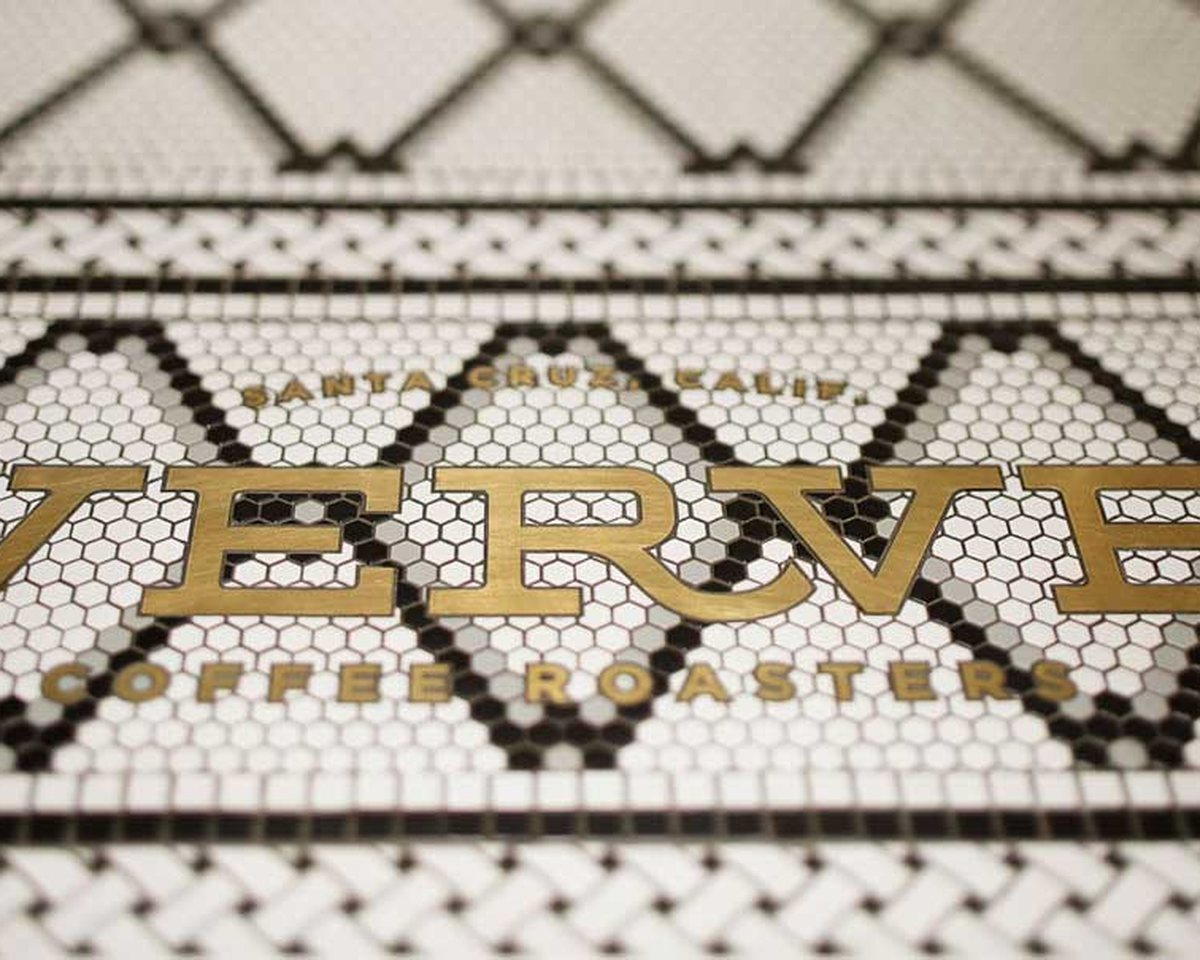
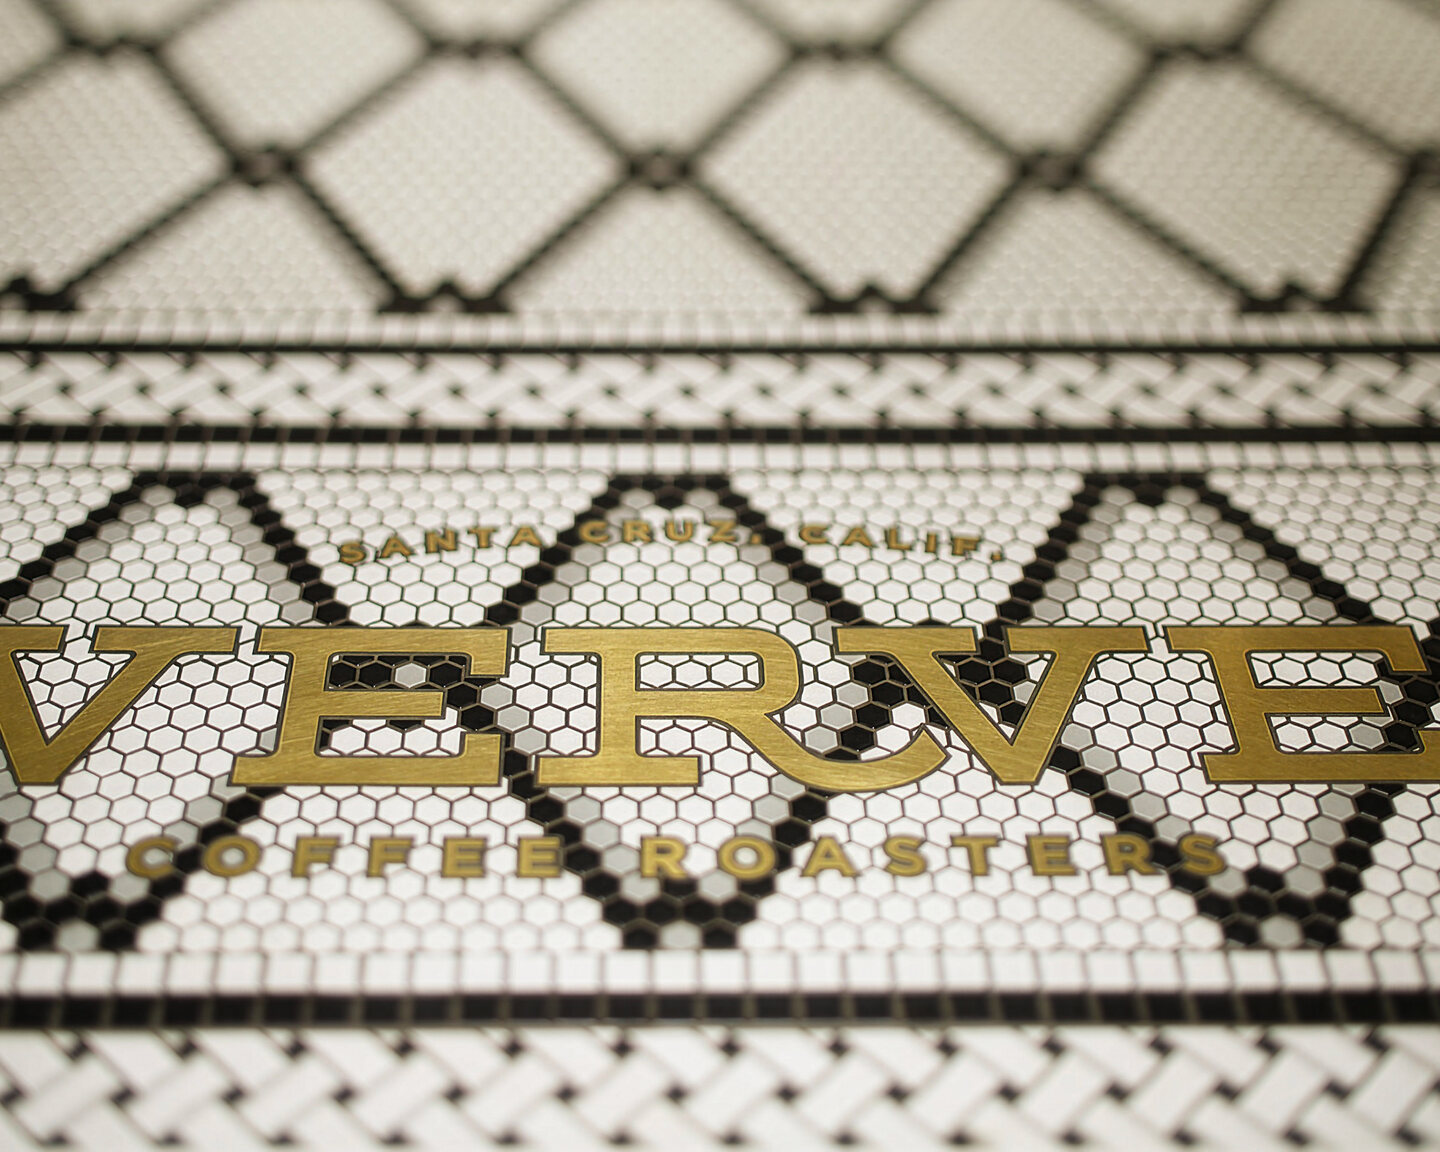
10-29 v1

diff --git a/client-brands.html b/client-brands.html
@@ -66,7 +66,7 @@
       <p class="cs-hsub">Founded with an international spirit. Travel as the ends, not the means. Equal parts Olde England and Mel's Diner.</p>
     </div>
     <div class="cs-grid reveal">
-      <div class="cs-img has-img" style="aspect-ratio:1200/739"><img src="/assets/client-brands/v2/cc-hero.jpg" alt="Painted Coffee Cultures sign: Mission and 1301, South of Market" loading="lazy"></div>
+      <div class="cs-img has-img" style="aspect-ratio:3840/2160"><img src="/assets/client-brands/v2/cc-hero-pattern.jpg" alt="Coffee Cultures pattern: a grid of the brand marks, badges and type in orange, gold, cream and brown" loading="lazy"></div>
     </div>
     <div class="cs-grid cs-grid-2 keep-row reveal" style="gap:14px;margin-top:clamp(14px,0.97vw,14px)">
       <div class="cs-img has-img" style="aspect-ratio:1200/1200"><img src="/assets/client-brands/v2/cc-sign.jpg" alt="Hanging wooden Coffee Cultures sign outside the cafe" loading="lazy"></div>
@@ -74,10 +74,10 @@
       <div class="cs-img has-img" style="aspect-ratio:1200/1200"><img src="/assets/client-brands/v2/cc-board.jpg" alt="Coffee Cultures sandwich board covered in brand graphics" loading="lazy"></div>
       <div class="cs-img has-img" style="aspect-ratio:1200/1200"><img src="/assets/client-brands/v2/cc-wall.jpg" alt="A customer sitting beneath the Coffee Cultures mural wall" loading="lazy"></div>
     </div>
-    <div class="cs-grid reveal" style="margin-top:clamp(14px,0.97vw,14px)">
-      <div class="cs-img has-img" style="aspect-ratio:2200/1600"><img src="/assets/client-brands/v2/cc-assets.jpg" alt="Coffee Cultures core assets: primary trademark, secondary icon, brand colors and typefaces" loading="lazy"></div>
-    </div>
   </div>
+    <div class="cs-grid cs-grid-bleed band reveal" style="margin-top:clamp(14px,0.97vw,14px)">
+      <div class="cs-img has-img contain" style="aspect-ratio:1440/800;background:#FFFFFF;--pad:3%"><img src="/assets/client-brands/v2/cc-assets.jpg" alt="Coffee Cultures core assets: primary trademark, secondary icon, brand colors and typefaces" loading="lazy"></div>
+    </div>
 </section>
 
 <section class="cs-custom is-on-dark cs-media" id="verve-coffee-roasters" style="--ground:#433C2A">
@@ -87,13 +87,13 @@
       <p class="cs-hsub">The logo that launched a single-origin revolutionary and pioneer in coffee's third wave.</p>
     </div>
     <div class="cs-grid reveal">
-      <div class="cs-img has-img" style="aspect-ratio:2400/1627"><img src="/assets/client-brands/v2/verve-hero.jpg" alt="Verve Coffee Roasters logo on an espresso machine" loading="lazy"></div>
+      <div class="cs-img has-img" style="aspect-ratio:3/2"><img src="/assets/client-brands/v2/verve-hero-mosaic.jpg" alt="Verve Coffee Roasters logo set in gold into a black-and-white tile mosaic floor, Shinjuku" loading="lazy"></div>
     </div>
     <div class="cs-grid cs-grid-2 keep-row reveal" style="gap:14px;margin-top:clamp(14px,0.97vw,14px)">
       <div class="cs-img has-img" style="aspect-ratio:1200/960"><img src="/assets/client-brands/v2/verve-cupbag.jpg" alt="Verve coffee bag and cup" loading="lazy"></div>
       <div class="cs-img has-img" style="aspect-ratio:1200/960"><img src="/assets/client-brands/v2/verve-door.jpg" alt="Verve logo set vertically on the cafe door" loading="lazy"></div>
       <div class="cs-img has-img" style="aspect-ratio:1200/960"><img src="/assets/client-brands/v2/verve-glass.jpg" alt="Verve logo on the cafe window" loading="lazy"></div>
-      <div class="cs-img has-img" style="aspect-ratio:1200/960"><img src="/assets/client-brands/v2/verve-mosaic.jpg" alt="Verve logo set into a tile mosaic floor" loading="lazy"></div>
+      <div class="cs-img has-img" style="aspect-ratio:1200/960"><img src="/assets/client-brands/v2/verve-espresso.jpg" alt="Verve Coffee Roasters logo on an espresso machine" loading="lazy"></div>
     </div>
   </div>
 </section>
@@ -126,10 +126,10 @@
       <div class="cs-img has-img" style="aspect-ratio:1200/960"><img src="/assets/client-brands/v2/venus-box.jpg" alt="Venus gin gift box" loading="lazy"></div>
       <div class="cs-img has-img" style="aspect-ratio:1200/960"><img src="/assets/client-brands/v2/venus-aquavit.jpg" alt="Close-up of the Venus aquavit label" loading="lazy"></div>
     </div>
-    <div class="cs-grid reveal" style="margin-top:clamp(14px,0.97vw,14px)">
-      <div class="cs-img has-img" style="aspect-ratio:2200/1600"><img src="/assets/client-brands/v2/venus-assets.jpg" alt="Venus Spirits core assets: primary trademark, secondary icon, brand colors and typefaces" loading="lazy"></div>
-    </div>
   </div>
+    <div class="cs-grid cs-grid-bleed band reveal" style="margin-top:clamp(14px,0.97vw,14px)">
+      <div class="cs-img has-img contain" style="aspect-ratio:1440/800;background:#EEF7F6;--pad:3%"><img src="/assets/client-brands/v2/venus-assets.jpg" alt="Venus Spirits core assets: primary trademark, secondary icon, brand colors and typefaces" loading="lazy"></div>
+    </div>
 </section>
 
 <section class="cs-light is-cream cs-media" id="craftsman-and-wolves">

diff --git a/css/styles.css b/css/styles.css
@@ -531,3 +531,8 @@ body.is-docked:not(.menu-open) .nav{transform:translateY(-100%);}
   .next-link svg{width:36px;height:28px;}
   .dock-foot{padding-top:96px;}
 }
+
+/* BAND (Max 2026-10-29): a bleed block whose panel color runs edge to edge while the
+   art sits smaller inside it (client-brands asset boards). Phones show the art full width. */
+.cs-grid-bleed.band .cs-img{border:0;}
+@media(max-width:520px){ .band .cs-img{aspect-ratio:2200/1600!important;} .band .cs-img.contain img{padding:0;} }
